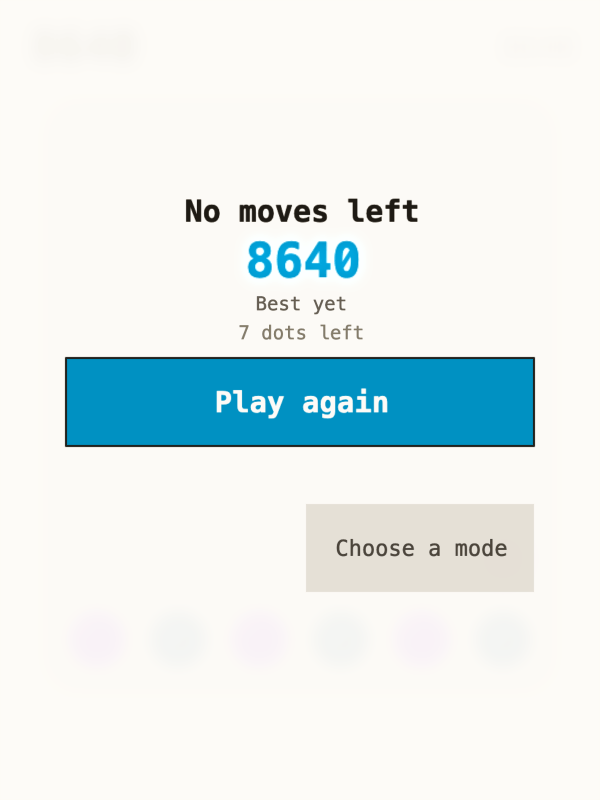
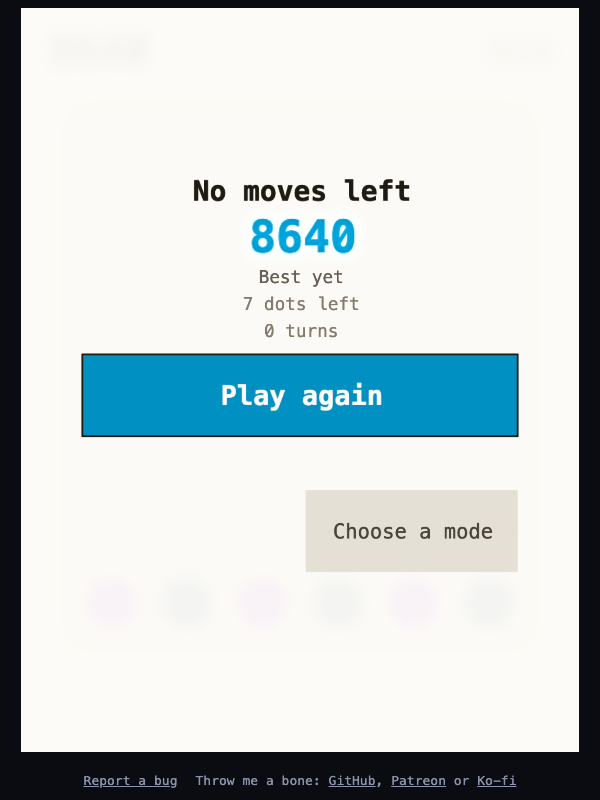
Count the turns a board took
A score says what was found on a board and nothing about what it cost to
find. Chains spent are counted per game and per level, the way the score
already is, and shown on the pause page, the game-over page and in what
both of them say out loud.

Changed region(s): [[0.0, 0.0, 1.0, 1.0], [0.09, 0.2188, 0.9, 0.5625], [0.51, 0.5938, 0.9, 0.75]]

diff --git a/src/game.js b/src/game.js
@@ -31,6 +31,7 @@ import {
   REDUCED_MOTION_RATE,
   PAGE_TITLES,
   OUTCOMES,
+  turnsText,
 } from "./config.js"
 import { THEMES, THEME_IDS, DOT_SHAPES } from "./palette.js"
 import { FONTS, fontById, fontReady, ensureFont } from "./fonts.js"
@@ -167,6 +168,11 @@ export class Game {
     // what was banked before it.
     this.level = 0
     this.levelStartScore = 0
+    // Chains spent this game, and how many had been spent when the current level was
+    // dealt: a level's turns are its own, the way its score is. What a board cost as
+    // against what it paid, which is the other half of how well it was played.
+    this.turns = 0
+    this.levelStartTurns = 0
     // A line over the board for a moment: a level cleared, and which is next.
     this.banner = null
     // Seconds since anything was picked up or spent, and what the board is pointing at
@@ -676,6 +682,11 @@ export class Game {
     return this.player.score - this.levelStartScore
   }
 
+  // And what it has cost, for the same reason: turns carry across levels too.
+  get levelTurns() {
+    return this.turns - this.levelStartTurns
+  }
+
   get levelPar() {
     const level = this.currentLevel
     return level && level.par ? level.par : 0
@@ -719,6 +730,12 @@ export class Game {
     const best = this.bestScore
     const scored = `Scored ${this.player.score}`
     return best > 0 ? `${scored}, best ${best}` : scored
+  }
+
+  // What it has cost, in chains spent: the level's own where a level is being played, since
+  // the score beside it is the level's too.
+  get turnsLine() {
+    return turnsText(this.currentLevel ? this.levelTurns : this.turns)
   }
 
   // A board for the title screen to sit over, so the game shows itself instead of offering a
@@ -795,6 +812,8 @@ export class Game {
     this.level =
       levels && this.levelUnlocked(wanted, this.mode.id) ? clamp(wanted, 0, levels.length - 1) : 0
     this.levelStartScore = 0
+    this.turns = 0
+    this.levelStartTurns = 0
     this.banner = null
     this.notice = null
     this.#dealBoard()
@@ -836,6 +855,7 @@ export class Game {
     const starred = this.#recordLevel(this.level, scored)
     this.level++
     this.levelStartScore = this.player.score
+    this.levelStartTurns = this.turns
     this.#dealBoard()
     this.popping.length = 0
     for (const player of this.players) {
@@ -868,6 +888,7 @@ export class Game {
       return
     }
     this.player.score = this.levelStartScore
+    this.turns = this.levelStartTurns
     this.#dealBoard()
     this.particles.clear()
     this.popping.length = 0
@@ -1235,6 +1256,7 @@ export class Game {
     const length = chain.length
     const scored = CONFIG.chainScore(length) * player.multiplier
     player.score += scored
+    this.turns++
 
     const neighbours = this.board.neighboursOf(chain)
     this.board.remove(chain)
@@ -2111,8 +2133,11 @@ export class Game {
     }
     if (this.page === "pause") {
       // The same words the page shows, which is the point of pausing for anyone who cannot
-      // read the score off the board: what is being played, and what it has paid so far.
-      return [this.mode.name, this.boardName, this.scoreLine].filter(Boolean).join(". ")
+      // read the score off the board: what is being played, what it has paid so far, and
+      // what it has cost.
+      return [this.mode.name, this.boardName, this.scoreLine, this.turnsLine]
+        .filter(Boolean)
+        .join(". ")
     }
     // Why this page is the page being looked at, said before what is on it: a player who did
     // not ask for it needs to hear that first.

diff --git a/src/view.js b/src/view.js
@@ -6,7 +6,15 @@
 // dots over it, then the particles, then a curtain over the strip above the board
 // where refilled dots are still falling in, and the HUD and any menu over that.
 
-import { VIEW_W, VIEW_H, CONFIG, cellCentre, PAGE_TITLES, LEVEL_COLUMNS } from "./config.js"
+import {
+  VIEW_W,
+  VIEW_H,
+  CONFIG,
+  cellCentre,
+  PAGE_TITLES,
+  LEVEL_COLUMNS,
+  turnsText,
+} from "./config.js"
 import { PHASE } from "./game.js"
 import { THEMES, DOT_SHAPES } from "./palette.js"
 import { levelGrid, PUZZLE_COLS, PUZZLE_ROWS } from "./modes/levels.js"
@@ -1249,6 +1257,9 @@ export class GameView {
             size: 19,
           })
         }
+        // What the score cost, which is the other half of how it was played: two players on
+        // one code can hold up the same number and have arrived at it quite differently.
+        lines.push({ text: turnsText(game.turns), colour: theme.text.faint, size: 19 })
         // The code, on the screen most likely to be shared: it is what somebody else needs to
         // play the board this score was made on.
         if (game.mode.seeded) {
@@ -1319,6 +1330,7 @@ export class GameView {
           size: 19,
         })
         lines.push({ text: game.scoreLine, colour: theme.accent, size: 22, bold: true })
+        lines.push({ text: game.turnsLine, colour: theme.text.dim, size: 19 })
         return lines
       }
     }

diff --git a/test/view.test.js b/test/view.test.js
@@ -439,12 +439,14 @@ test("the pause page says which board and what it has paid", () => {
   assert.match(spoken, /^Puzzle\. (?!Puzzle)/, "the mode's name once, not twice")
   assert.match(spoken, new RegExp(puzzle.currentLevel.name), "then the board's own name")
   assert.match(spoken, /Scored 0 of \d+/, "and what it has paid against its par")
+  assert.match(spoken, /0 turns/, "and what it has cost")
   // The page shows the same words it says.
   const shown = drawn(puzzle)
     .filter((call) => call.kind === "text")
     .map((call) => call.opts.str)
   assert.ok(shown.includes(puzzle.boardName), "the board is named on the page")
   assert.ok(shown.includes(puzzle.scoreLine), "and so is the score")
+  assert.ok(shown.includes(puzzle.turnsLine), "and the turns beside it")
 
   // Counted and named off the set being played, not off the first one: `mode.levels` is only
   // ever the first set.

diff --git a/test/levels.test.js b/test/levels.test.js
@@ -490,6 +490,7 @@ test("clearing a level moves on to the next and keeps the score", () => {
   assert.equal(game.phase, PHASE.PLAYING, "and the game did not end")
   assert.equal(game.player.score, scored, "the score carried over")
   assert.equal(game.levelStartScore, scored, "and is what a retry would cost")
+  assert.equal(game.levelStartTurns, game.turns, "as are the turns it was dealt at")
   assert.ok(game.banner, "the player is told")
   assert.equal(game.board.empty, false)
 })

diff --git a/src/config.js b/src/config.js
@@ -400,6 +400,10 @@ export const PAGE_TITLES = {
   seed: "Seeded",
 }
 
+// Chains spent, in words. Three pages print it and one of them says it out loud, so it is
+// written once.
+export const turnsText = (turns) => (turns === 1 ? "1 turn" : `${turns} turns`)
+
 // What a finished board is told it did.
 export const OUTCOMES = {
   lost: "No moves left",
